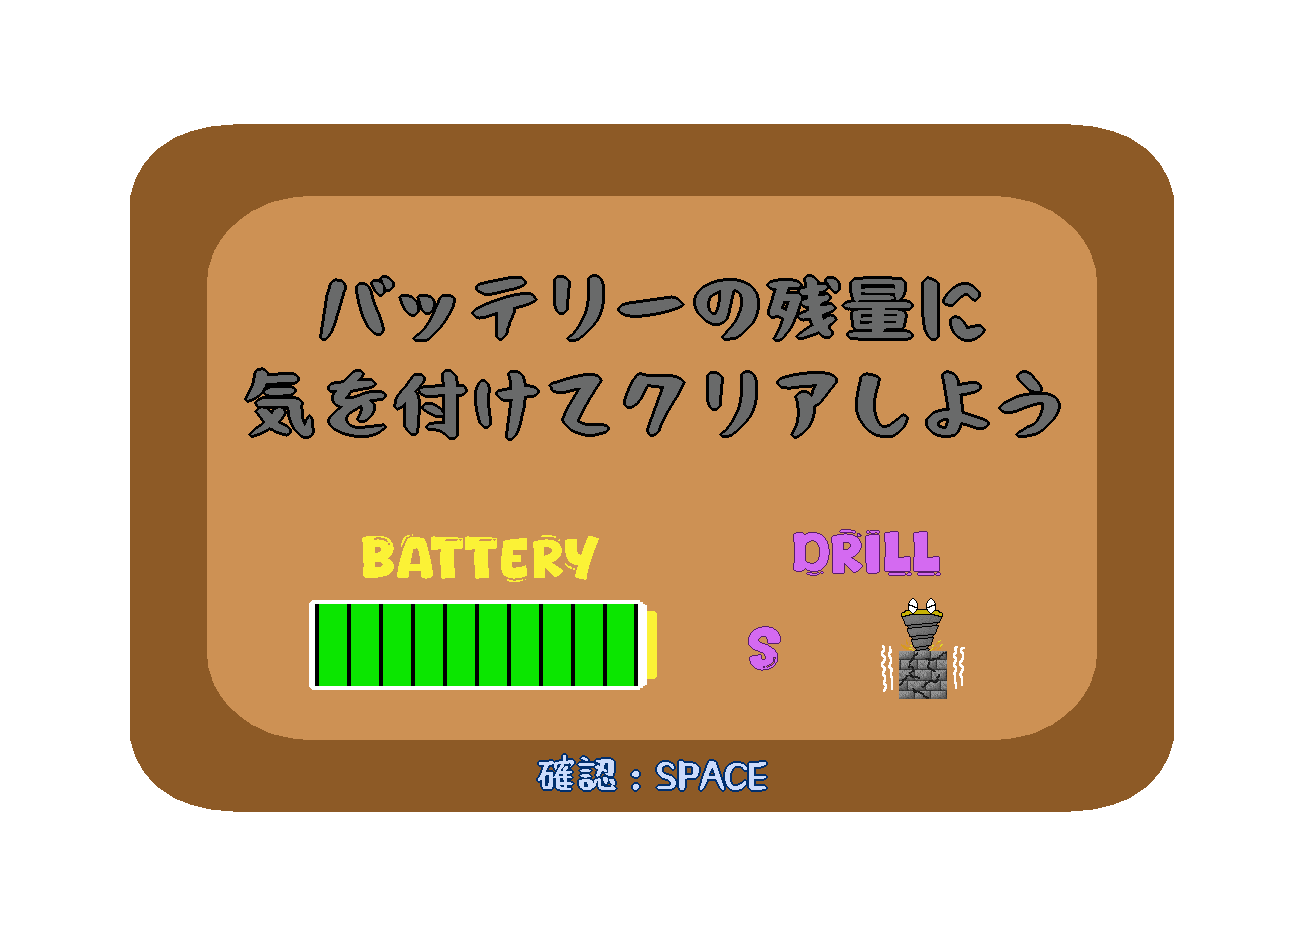
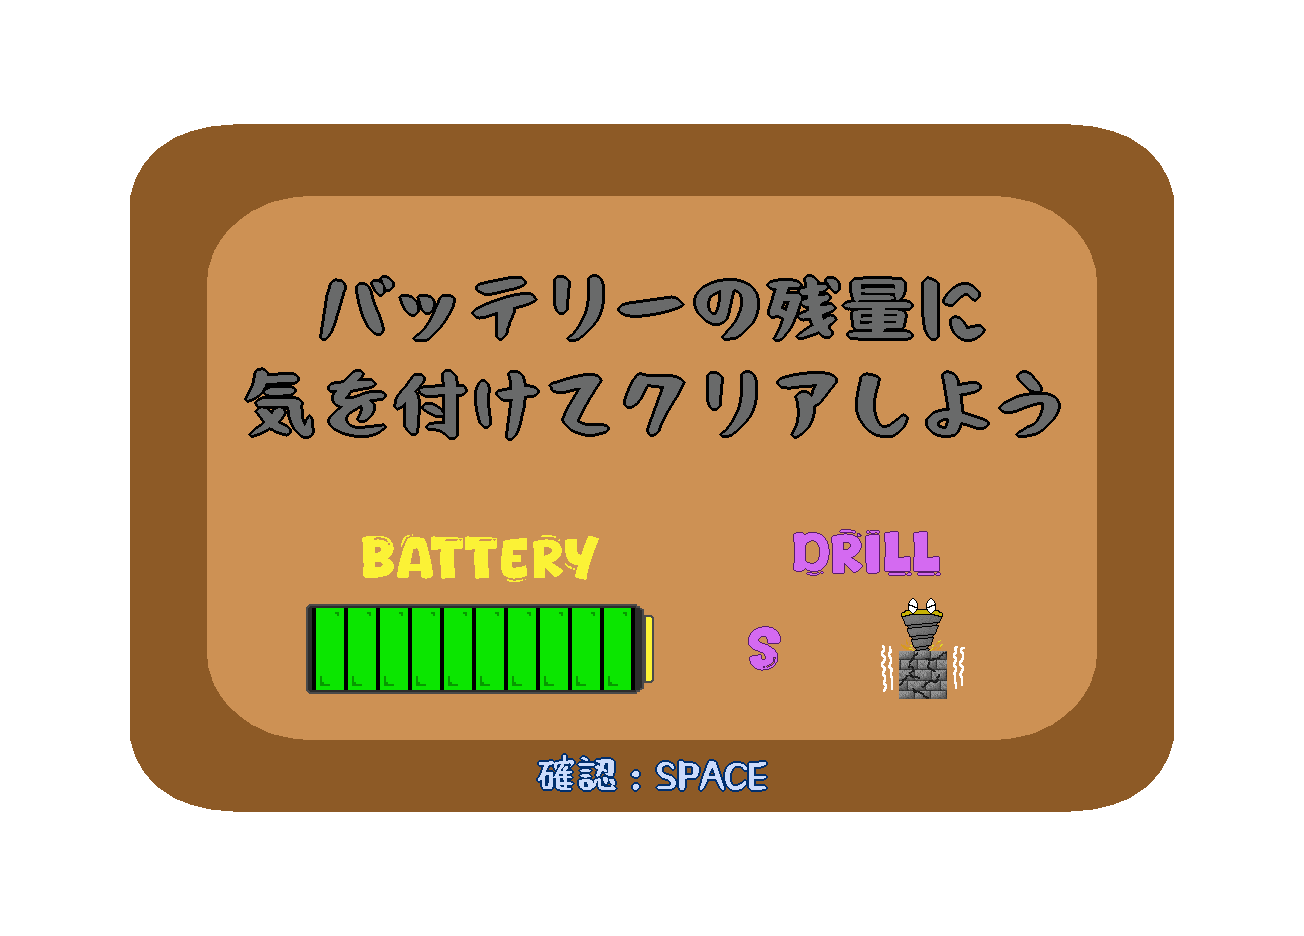
updated battery added blinking for drill UI (temporary)

Changed region(s): [[0.2147, 0.6197, 0.5215, 0.7436]]

diff --git a/UserInterface.cpp b/UserInterface.cpp
@@ -6,7 +6,7 @@ UserInterface::~UserInterface()
 void UserInterface::Initialize()
 {
 	batteryColor = 0x00FF1AFF; //Green
-	drillA = 0;
+	batteryA = 0;
 }
 
 void UserInterface::Update(bool isShowingDrillUI, bool isTutorial)
@@ -30,18 +30,32 @@ void UserInterface::Update(bool isShowingDrillUI, bool isTutorial)
 	G = std::clamp((int)G, 0, 255); //Clamp G to 255
 	length_ = std::clamp(length_, 0.f, 323.f);
 
-	// Adjusting drill UI alpha
-	if (!isTutorial) { drillA = 255; }
-	else if (isShowingDrillUI && isTutorial) { isStartIncreaseAlpha = true; }
+	// Adjusting battery UI alpha
+	if (!isTutorial) {
+		batteryA = 255;
+		drillBoxA = 0;
+	}
+	else if (isShowingDrillUI && isTutorial) {
+		isStartIncreaseAlpha = true;
+		isStartBlinking = true;
+	}
 	if (isStartIncreaseAlpha) {
-		drillA += 6;
-		if (drillA >= 255) {
-			drillA = 255;
+		batteryA += 6;
+		if (batteryA >= 255) {
+			batteryA = 255;
 			isStartIncreaseAlpha = false;
 		}
 	}
-	batteryColor = (R << 24) | (G << 16) | (B << 8) | drillA;
-	drillColor = (drillR << 24) | (drillG << 16) | (drillB << 8) | drillA;
+	// Adjusting drill UI alpha
+	if (isStartBlinking) {
+		drillBoxA += alphaSpeed;
+		if (drillBoxA >= 118 && drillBoxA <= 255) { alphaSpeed = -3; }
+		else if (drillBoxA <= 0 || drillBoxA > 255) { alphaSpeed = 3; }
+	}
+
+	drillBoxColor = (drillBoxR << 24) | (drillBoxG << 16) | (drillBoxB << 8) | drillBoxA;
+	batteryUIColor = (R << 24) | (G << 16) | (B << 8) | batteryA;
+	batteryColor = (batteryR << 24) | (batteryG << 16) | (batteryB << 8) | batteryA;
 }
 
 void UserInterface::Draw() const
@@ -65,14 +79,15 @@ void UserInterface::Draw() const
 	Novice::DrawSprite(1736, 725, jumpLines, 1.0f, 1.0f, 0.0f, WHITE); //Player Jump Lines
 
 	//Energy
-	Novice::DrawSprite(1509, 100, EnergyHandle, 1.0f, 1.0f, 0.0f, drillColor); //HP Battery
-	Novice::DrawBox(1516, 104, (int)length_, 82, 0.0f, batteryColor, kFillModeSolid); // COLOR
-	Novice::DrawSprite(1510, 100, energyLineHandle, 1.0f, 1.0f, 0.0f, drillColor); //HP line
-	Novice::DrawSprite(1560, 30, batteryText, 1.0f, 1.0f, 0.0f, drillColor); //BATTERY text
+	Novice::DrawSprite(1509, 100, EnergyHandle, 1.0f, 1.0f, 0.0f, batteryColor); //HP Battery
+	Novice::DrawBox(1516, 104, (int)length_, 82, 0.0f, batteryUIColor, kFillModeSolid); // COLOR
+	Novice::DrawSprite(1510, 100, energyLineHandle, 1.0f, 1.0f, 0.0f, batteryColor); //HP line
+	Novice::DrawSprite(1560, 30, batteryText, 1.0f, 1.0f, 0.0f, batteryColor); //BATTERY text
 	//Drill
-	Novice::DrawSprite(1540, 800, drillText, 1.0f, 1.0f, 0.0f, drillColor); //DRILL
-	Novice::DrawSprite(1520, 900, letterSHandle, 1.0f, 1.0f, 0.0f, drillColor); //S
-	Novice::DrawSprite(1725, 885, drillingPlayer, 1.0f, 1.0f, 0.0f, drillColor); //Drilling Player
+	Novice::DrawBox(1500, 785, 340, 235, 0, drillBoxColor, kFillModeSolid);	// Drill Box Blink
+	Novice::DrawSprite(1540, 800, drillText, 1.0f, 1.0f, 0.0f, batteryColor); //DRILL
+	Novice::DrawSprite(1520, 900, letterSHandle, 1.0f, 1.0f, 0.0f, batteryColor); //S
+	Novice::DrawSprite(1725, 885, drillingPlayer, 1.0f, 1.0f, 0.0f, batteryColor); //Drilling Player
 
 	//Life
 	Novice::DrawSprite(1570, 205, lifeTextHandle, 1.0f, 1.0f, 0.0f, WHITE); //LIFE

diff --git a/BasicTutorialScene.cpp b/BasicTutorialScene.cpp
@@ -280,7 +280,7 @@ void BasicTutorialScene::ChangePhase()
 		if (Input::GetInstance()->TriggerKey(DIK_SPACE) && !isAbleToDrill) { isStartMovement = true; }
 		if (isStartMovement) {
 			tryMovementTimer++;
-			if (tryMovementTimer >= 60) {
+			if (tryMovementTimer >= 6000) {
 				isStartMovement = false;
 				isTriedMovement = true;	// go back to text explanation
 				phase_ = Phase::kTextExplanation;
@@ -386,7 +386,6 @@ void BasicTutorialScene::TextExplanation()
 				isPage[3] = false;
 				isAbleToDrill = true;	// can drill from now
 				scrollSpeed = 2.f;
-				
 			}
 		}
 	}

diff --git a/UserInterface.h b/UserInterface.h
@@ -69,11 +69,20 @@ private:
 	int playerHP_ = 4;
 
 	// Drill
-	uint32_t drillColor;
-	uint32_t drillR = 255;
-	uint32_t drillG = 255;
-	uint32_t drillB = 255;
-	uint32_t drillA = 0;
+	uint32_t drillBoxColor;
+	uint32_t drillBoxR = 235;
+	uint32_t drillBoxG = 255;
+	uint32_t drillBoxB = 41;
+	uint32_t drillBoxA = 0;
+	int alphaSpeed = 3;
+	bool isStartBlinking = false;
+
+	// Battery
+	uint32_t batteryUIColor;
+	uint32_t batteryR = 255;
+	uint32_t batteryG = 255;
+	uint32_t batteryB = 255;
+	uint32_t batteryA = 0;
 	bool isStartIncreaseAlpha = false;
 	
 	//HP

diff --git a/BasicTutorialScene.h b/BasicTutorialScene.h
@@ -30,6 +30,9 @@ public:
 	void CheckAllCollision();
 
 private:
+	//Scroll
+	float scrollSpeed = 0.f;
+
 	enum class Phase
 	{
 		kFadeIn,
@@ -126,9 +129,6 @@ private:
 	Vector2 leftWallPos_ = { 144.f,0 };
 	std::vector<BlockNotDestroyable*>rightWallBlocks_;
 	Vector2 rightWallPos_ = { 1392.f,0 };
-
-	//Scroll
-	float scrollSpeed = 0.f;
 
 	//Goal
 	Goal* goal_ = nullptr;

diff --git a/Player.h b/Player.h
@@ -193,8 +193,9 @@ private:
 
 	//Taking damage
 	bool isTakingDamage_ = false;
+	static inline const int kMaxIFrames = 60;
 	int iFrames = 0;
-	static inline const uint8_t kMaxDrawCount = 40;
+	static inline const uint8_t kMaxDrawCount = 30;
 	uint8_t drawCount = 0;
 	uint32_t halfAlphaWhite = 0xFF4040FF;
 	uint32_t color = 0xFFFFFFFF;

diff --git a/Player.cpp b/Player.cpp
@@ -678,7 +678,7 @@ void Player::TakingDamage()
 
 	if (iFrames == 1) { hp--; }
 
-	if (iFrames >= 120)
+	if (iFrames >= kMaxIFrames)
 	{
 		isTakingDamage_ = false;
 		iFrames = 0;

diff --git a/IScene.cpp b/IScene.cpp
@@ -1,6 +1,6 @@
 #include "IScene.h"
 
-int IScene::sceneNo = STAGE;
+int IScene::sceneNo = BASIC_TUTORIAL;
 
 IScene::~IScene()
 {
